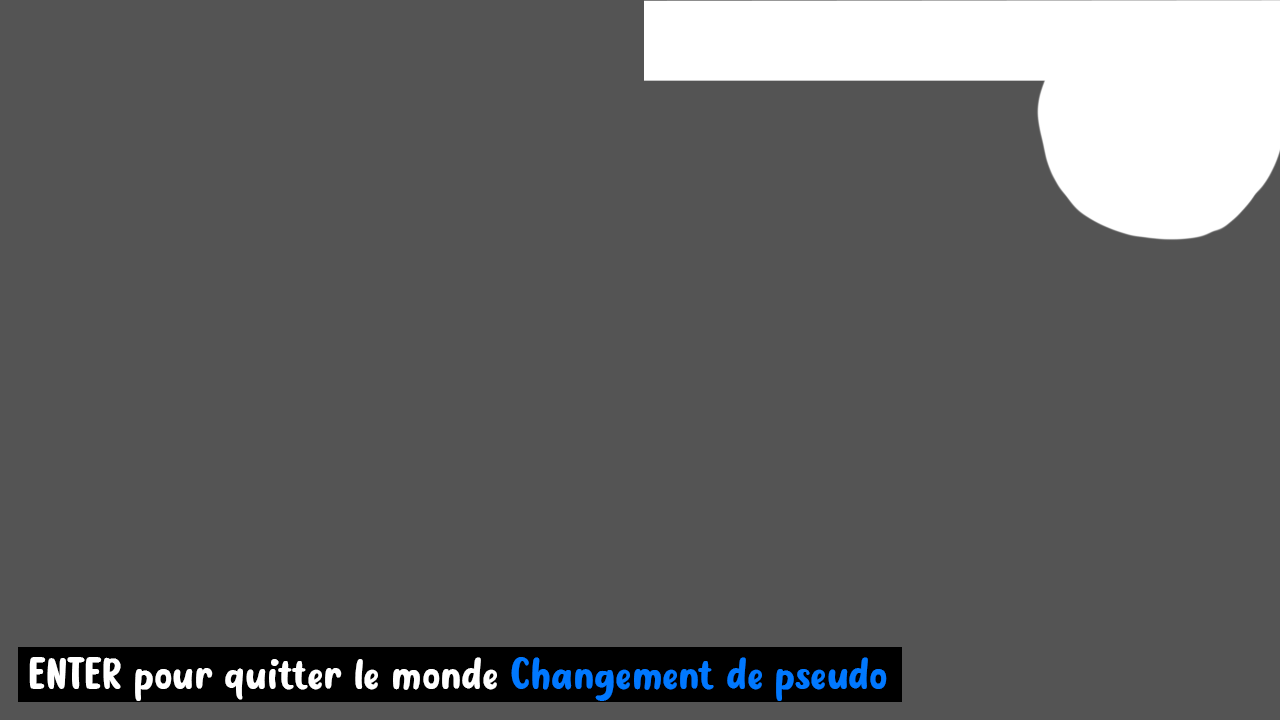
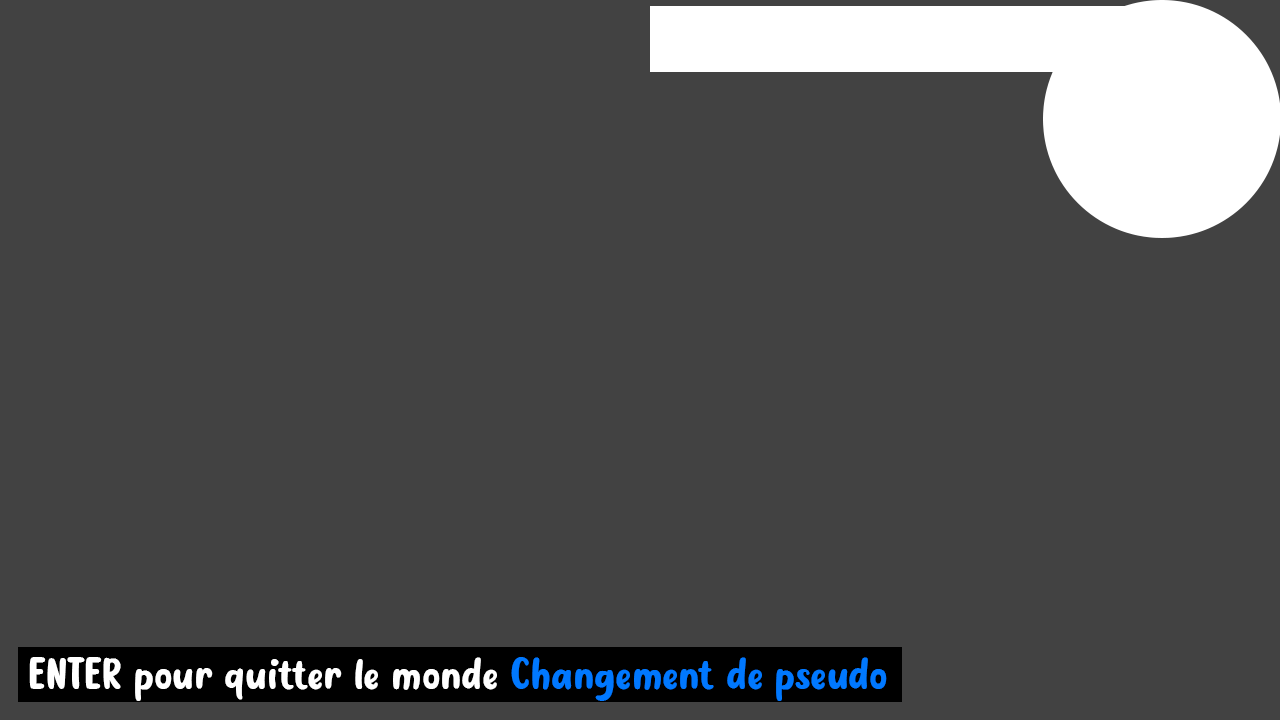
finish all animations to change player name in game.classic_panel.update()
add new images for thoses animations

Changed region(s): [[0.5, 0.0, 1.0, 0.1528], [0.8125, 0.1833, 0.9688, 0.3361], [0.9688, 0.2139, 1.0, 0.2444]]

diff --git a/main.py b/main.py
@@ -1,3 +1,5 @@
+import random
+
 import pygame
 from game import Game
 
@@ -50,9 +52,79 @@ pygame_alphabet = {
     pygame.K_KP_7: '7',
     pygame.K_KP_8: '8',
     pygame.K_KP_9: '9',
+    pygame.K_COMMA: '.'
 }
 
-game = Game()
+alphabet_pixels = {
+    'a': 20,
+    'b': 21,
+    'c': 20,
+    'd': 21,
+    'e': 21,
+    'f': 9,
+    'g': 21,
+    'h': 21,
+    'i': 9,
+    'j': 9,
+    'k': 19,
+    'l': 9,
+    'm': 34,
+    'n': 21,
+    'o': 21,
+    'p': 21,
+    'q': 21,
+    'r': 13,
+    's': 19,
+    't': 10,
+    'u': 21,
+    'v': 17,
+    'w': 28,
+    'x': 22,
+    'y': 17,
+    'z': 14,
+    ' ': 3,
+    '': 0,
+    '0': 18,
+    '1': 14,
+    '2': 20,
+    '3': 22,
+    '4': 20,
+    '5': 22,
+    '6': 22,
+    '7': 15.9,
+    '8': 22,
+    '9': 22,
+    '.': 4,
+    'intertext': 5,
+    'A': 21,
+    'B': 23,
+    'C': 23,
+    'D': 23,
+    'E': 16,
+    'F': 15,
+    'G': 23,
+    'H': 23,
+    'I': 9,
+    'J': 12,
+    'K': 22,
+    'L': 14,
+    'M': 31,
+    'N': 22,
+    'O': 22,
+    'P': 20,
+    'Q': 22,
+    'R': 22,
+    'S': 21,
+    'T': 18,
+    'U': 22,
+    'V': 21,
+    'W': 36,
+    'X': 19,
+    'Y': 19,
+    'Z': 15,
+}
+
+game = Game(alphabet_pixels)
 
 running = True
 
@@ -60,7 +132,7 @@ running = True
 while running:
     posSouris = pygame.mouse.get_pos()
 
-    game.update(screen)
+    game.update(screen, posSouris)
 
     pygame.display.flip()  # Update de la fenetre
 
@@ -71,15 +143,15 @@ while running:
         if event.type == pygame.KEYDOWN:
             game.pressed[event.key] = True
 
-            if game.change_player_name_mode:
+            if game.classic_panel.change_player_name_mode:
                 if event.key == pygame.K_RETURN:
                     if game.player_name == '':
-                        game.player_name = 'Easter egg 1'
+                        game.player_name = random.choice(game.player_random_names)
                         game.classic_panel.update_player_name(game.player_name)
-                    game.change_player_name_mode = False
+                    game.classic_panel.change_player_name_mode = False
 
                 else:
-                    if len(game.player_name) <= 15:
+                    if game.classic_panel.calcul_player_name_pixels() < 385:
                         if game.pressed[pygame.K_LSHIFT]:
                             if event.key in pygame_alphabet:
                                 game.player_name += pygame_alphabet[event.key].upper()
@@ -117,15 +189,20 @@ while running:
                             game.is_accueil = False
                             game.create_new_game()
                             game.reset_save_file()
+                            pygame.mouse.set_cursor(pygame.SYSTEM_CURSOR_ARROW)
 
                 if game.is_playing:
-                    if not game.change_player_name_mode:
+                    if not game.classic_panel.change_player_name_mode:
                         if game.classic_panel.player_name_rect.collidepoint(posSouris):
-                            game.change_player_name_mode = True
+                            game.classic_panel.change_player_name_mode = True
                             game.player_name = ""
                             game.classic_panel.is_pname_modif = True
-
-
+                    else:
+                        if not game.classic_panel.player_name_rect.collidepoint(posSouris):
+                            if game.player_name == '':
+                                game.player_name = random.choice(game.player_random_names)
+                                game.classic_panel.update_player_name(game.player_name)
+                            game.classic_panel.change_player_name_mode = False
 
     clock.tick(FPS)
 

diff --git a/image.py b/image.py
@@ -3,6 +3,7 @@ import animation
 import random
 pygame.font.init()
 
+
 class Image(animation.AnimateImage):
 
     def __init__(self, nb_images, image_name):
@@ -59,6 +60,23 @@ class IntroAccueil(Image):
         super().__init__(147, 'intro')
         self.start_animation()
         self.pas = 2
+
+
+class CursorChangePseudoMode:
+
+    def __init__(self):
+        self.image = pygame.image.load('assets/game/panels/classic_panel/curseur_changement_pseudo.png')
+
+        self.compteur_animation = 0
+
+    def update(self, surface, player_name_pixels=0):
+        self.compteur_animation += 1
+
+        if self.compteur_animation < 25:
+            surface.blit(self.image, (1+player_name_pixels, 1))
+
+        if self.compteur_animation > 57:
+            self.compteur_animation = 0
 
 
 class AccueilButtons:
@@ -181,7 +199,9 @@ class ClassicGamePanel:
 
     def __init__(self, player_name):
         self.background = pygame.image.load('assets/game/panels/classic_panel/background.png')
-        self.mode_changement_pseudo_image = pygame.image.load('assets/game/panels/classic_panel/mode_changement_pseudo.png')
+        self.mode_changement_pseudo_image = pygame.image.load('assets/game/panels/classic_panel/'
+                                                              'mode_changement_pseudo.png')
+        self.curseur_changement_pseudo = CursorChangePseudoMode()
 
         self.font = pygame.font.Font('assets/fonts/impact.ttf', 50)
         self.font_size2 = pygame.font.Font('assets/fonts/impact.ttf', 25)
@@ -192,18 +212,43 @@ class ClassicGamePanel:
 
         self.is_pname_modif = False
 
-        self.player_name_rect = pygame.Rect(656, 12, 1055, 63)
+        self.player_name_rect = pygame.Rect(656, 12, 399, 51)
+        self.player_name_hover = pygame.image.load("assets/game/panels/classic_panel/player_name_hover.png")
+        self.change_player_name_mode = False
 
-    def update(self, surface):
+        self.alphabet_pixels = {}
+
+    def update(self, surface, possouris):
 
         surface.blit(self.background, (0, 0))
 
         surface.blit(self.player_name_image, (662, 10))
         if not self.is_pname_modif:
             surface.blit(self.player_name_indication, (760, 30))
+        if self.player_name_rect.collidepoint(possouris):
+            if pygame.mouse.get_cursor() != pygame.SYSTEM_CURSOR_HAND:
+                pygame.mouse.set_cursor(pygame.SYSTEM_CURSOR_HAND)
+            surface.blit(self.player_name_hover, (0, 0))
+        else:
+            if pygame.mouse.get_cursor() != pygame.SYSTEM_CURSOR_ARROW:
+                pygame.mouse.set_cursor(pygame.SYSTEM_CURSOR_ARROW)
+
+        if self.change_player_name_mode:
+            surface.blit(self.mode_changement_pseudo_image, (0, 0))
+            self.curseur_changement_pseudo.update(surface, self.calcul_player_name_pixels())
 
     def update_player_name(self, current_player_name):
         if not self.player_name == current_player_name:
             self.player_name = current_player_name
             self.player_name_image = self.font.render(self.player_name, False, (15, 0, 124))
 
+    def calcul_player_name_pixels(self):
+        pixels = 0
+        for c in self.player_name:
+            pixels += self.alphabet_pixels[c]
+            pixels += 5
+
+        return pixels
+
+    def def_alphabet_pixels(self, alphabet_pixels):
+        self.alphabet_pixels = alphabet_pixels

diff --git a/game.py b/game.py
@@ -7,17 +7,19 @@ import image
 
 
 class Game:
-    def __init__(self):
-        self.is_playing = True
-        self.is_accueil = False
+    def __init__(self, alphabet_pixels):
+        self.is_playing = False
+        self.is_accueil = True
 
         self.pressed = {pygame.K_LSHIFT: False}
 
         self.player_name = "Nom"
-        self.change_player_name_mode = False
+        self.player_random_names = ['Romuald', 'Tyranocif', 'Ventilateur', 'Pissenlit', 'Guy le bandit', 'xXGamer-12Xx',
+                                    "Moi c'est Kevin", 'Limonde']
 
         self.accueil = accueil.Accueil()
         self.classic_panel = image.ClassicGamePanel(self.player_name)
+        self.classic_panel.def_alphabet_pixels(alphabet_pixels)
 
         self.all_starters = {'feu': ['Salameche', 'Poussifeu'],
                              'eau': ['Carapuce', 'Gobou'],
@@ -28,13 +30,12 @@ class Game:
 
         self.save_file = open('save.txt', 'r+')
 
-    def update(self, screen):
+    def update(self, screen, possouris):
 
         if self.is_playing:
-            self.classic_panel.update(screen)
-            if self.change_player_name_mode:
+            self.classic_panel.update(screen, possouris)
+            if self.classic_panel.change_player_name_mode:
                 self.classic_panel.update_player_name(self.player_name)
-                screen.blit(self.classic_panel.mode_changement_pseudo_image, (0, 0))
         else:
             if self.is_accueil:
                 self.accueil.update(screen)
